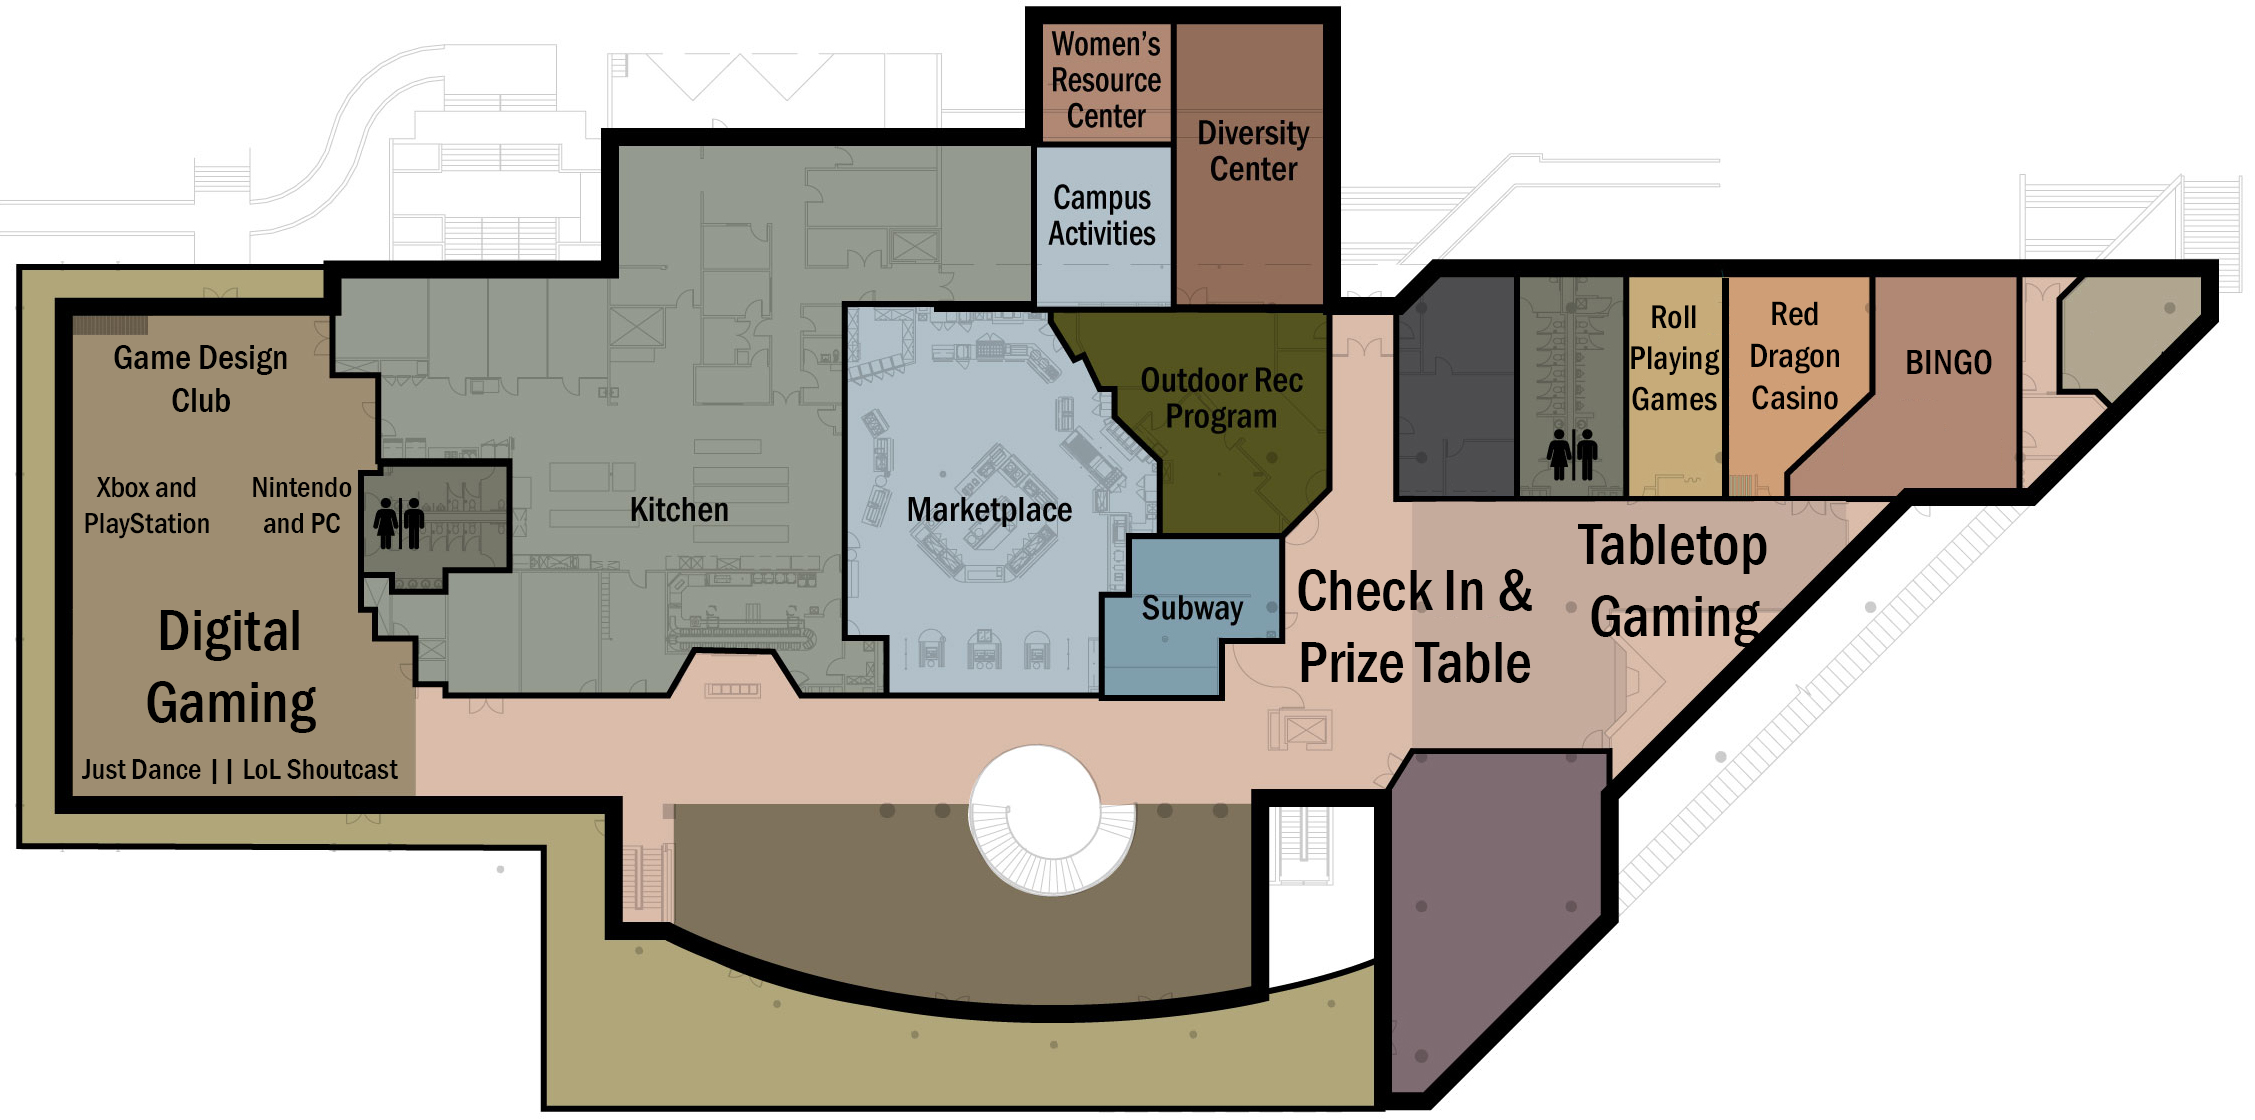
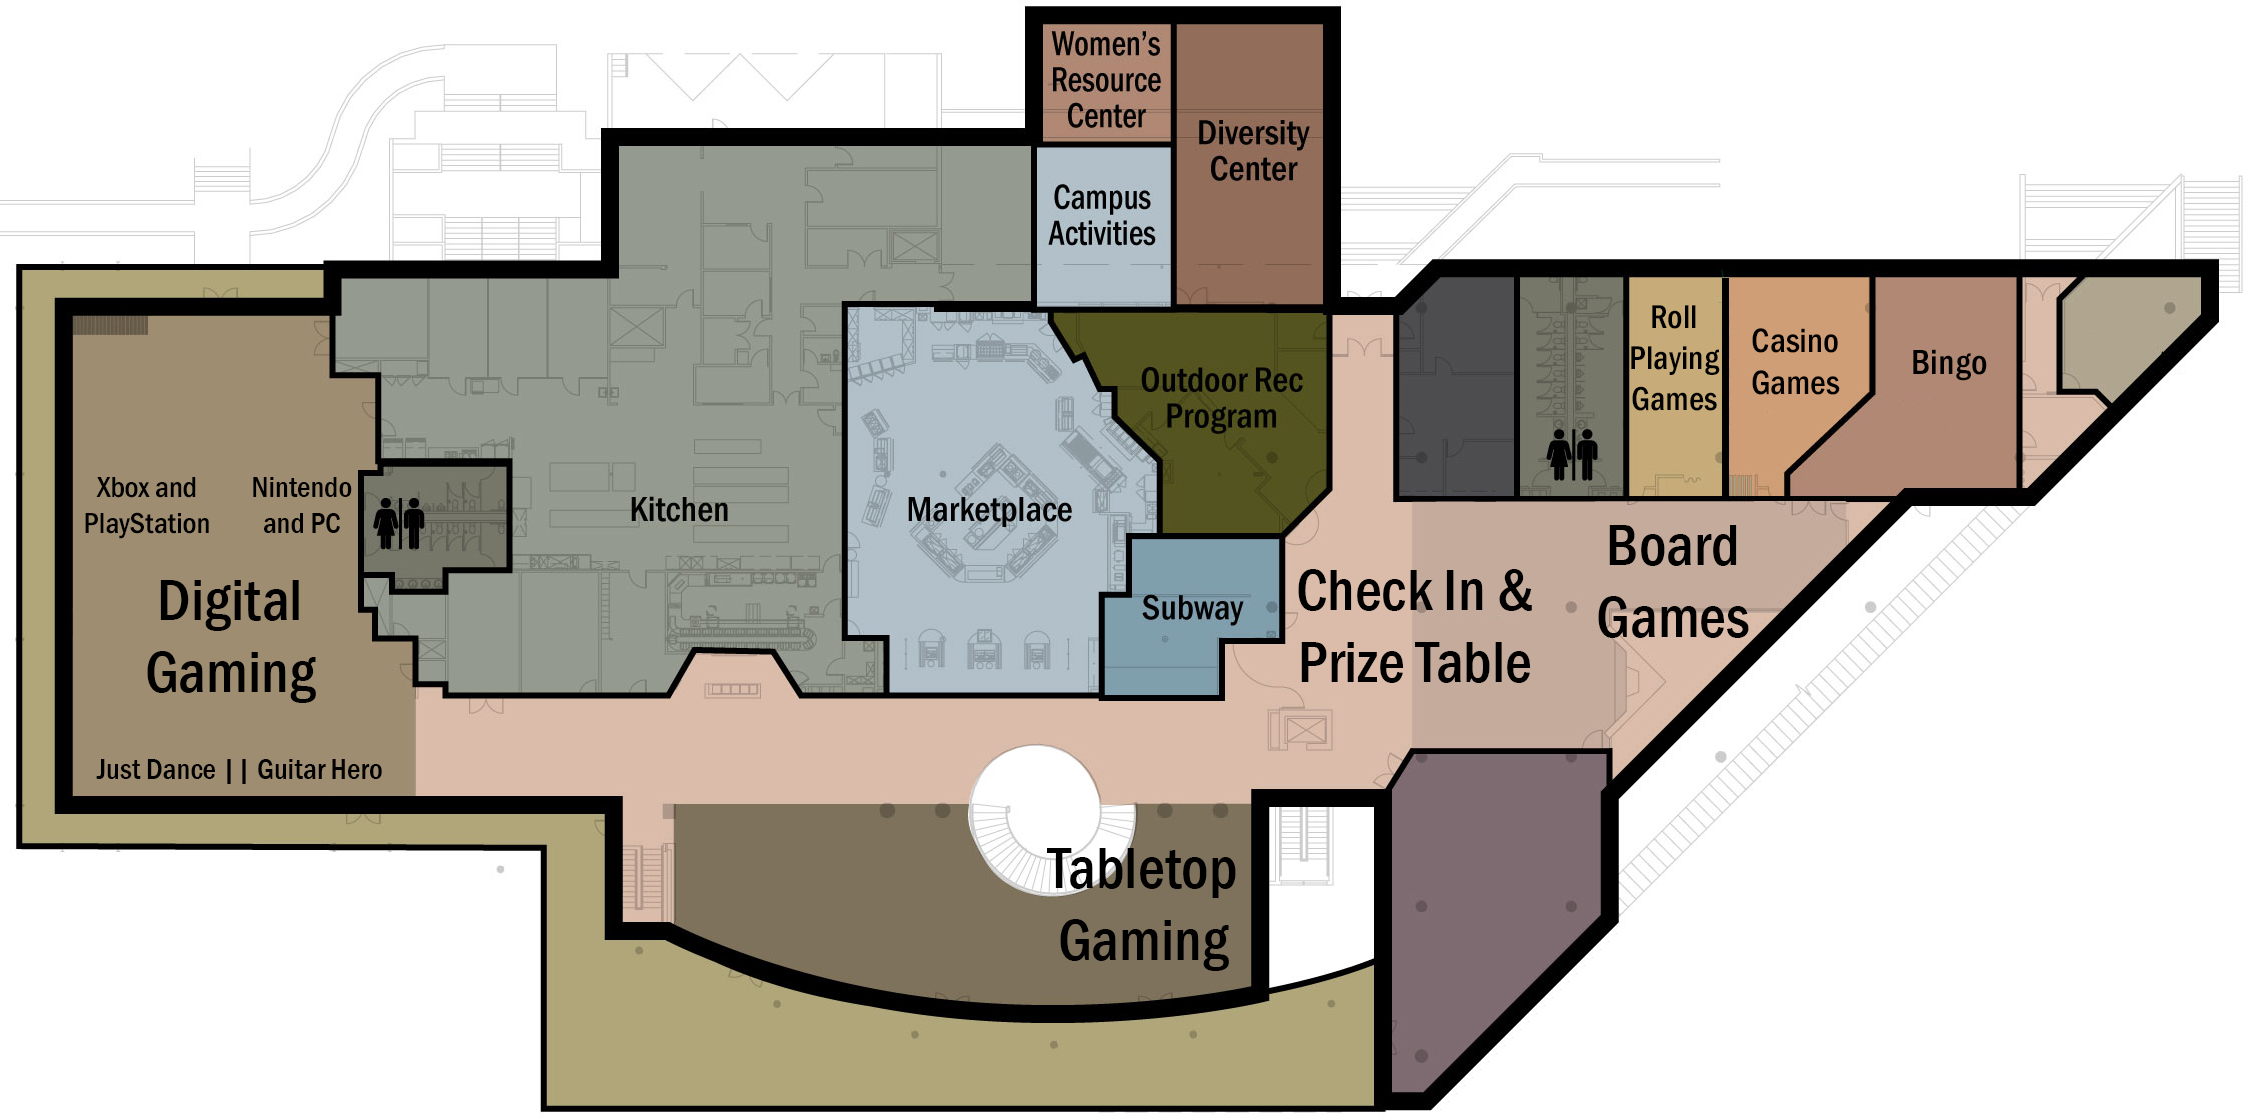
Updated map and schedule to as correct as I can find. Updated index to correct sponsors and tabs->spaces

diff --git a/site/index.html b/site/index.html
@@ -1,5 +1,5 @@
 <!DOCTYPE html
-	"http://techcon.paradoxtrail.net">
+    "http://techcon.paradoxtrail.net">
 <!--
                                                                                                     
   ,                E                          ###   #   #      ####   ####   ###    #               
@@ -69,64 +69,64 @@ tGtfLG###W#K##############W#
 --> 
 <html>
 <head>
-	<meta charset="UTF-8">
-	<title>TechCon 2016 - Oregon Tech</title>
-	<link rel="stylesheet" href="css/style.css" type="text/css">
-	<link rel="icon" type="image/x-icon" href="images/favicon.ico">
-	<meta name="Keywords" content="TechCon, 2016, OIT, Oregon Tech, Oregon Institute of Technology, convention, League of Legends, video game, casino, prizes">
-	
-	<script src="js/dates.js" type="text/javascript"></script> 
+    <meta charset="UTF-8">
+    <title>TechCon 2016 - Oregon Tech</title>
+    <link rel="stylesheet" href="css/style.css" type="text/css">
+    <link rel="icon" type="image/x-icon" href="images/favicon.ico">
+    <meta name="Keywords" content="TechCon, 2016, OIT, Oregon Tech, Oregon Institute of Technology, convention, League of Legends, video game, casino, prizes">
+    
+    <script src="js/dates.js" type="text/javascript"></script> 
     
     <script src="js/jquery-1.11.3.min.js"></script>
-	<script src="js/slideshow.js" type="text/javascript"></script> 
+    <script src="js/slideshow.js" type="text/javascript"></script> 
 </head>
 <body>
-	<div id="background-green">
-		background
-	</div>
-	<div class="page">
-		<div class="home-page">
-			<div class="sidebar">
-				<a href="index.html" id="logo"><img src="images/logo.png" alt="logo" ></a>
-				<ul>
-					<li class="selected home">
-						<a href="index.html">Home</a>
-					</li>
-					<li class="about">
-						<a href="about.html">About</a>
-					</li>
-					<li class="schedule">
-						<a href="schedule.html">Schedule</a>
-					</li>
-					<li class="reglol">
-						<a href="registerlol.html">LoL Reg</a>
-					</li>
-					<li class="reg">
-						<a href="register.html">Other Reg</a>
-					</li>
-				</ul>
-			</div>
-			<div class="body">
-				<div class="content-home">
-					<div>
-						<h3><a href="images/TechCon-2016-orig.jpeg" target="blank"><img src="images/TechCon-2016-small.jpg" alt="" width="345"></a></h3>
-						<p><center>
-							This year's TechCon will be 
-							<br><b>Saturday, January 16th, 2016.</b>
-						</center></p>
-						<br/>
-						<p>
-							TechCon is a campus-wide event hosted by Oregon Institute of Technology's Department of Housing and Residence Life. It caters primarily to the gamers and other con-loving people of Oregon Tech Klamath. 
-						</p>
-						<p>	
-							Naturally, you can go to our <a href="about.html">About page</a> to learn more or the <a href="schedule.html">Schedule page</a> to see exactly what we're going to be hosting. If you want to sign up for a tournament, go to the <a href="registerlol.html">League of Legends Registration page</a> or the <a href="register.html">General Registration page</a>.
-						</p>
-						<p><br>
-							Questions about TechCon? Send an email to <a href="mailto:res.life@oit.edu?subject=TechCon">res.life@oit.edu</a>.
-						</p>
-					</div>
-					<div class="featured">
-						<!--<iframe width="825" height="490" src="http://www.youtube.com/embed/zobvU0PF6t4" frameborder="0" allowfullscreen></iframe>
+    <div id="background-green">
+        background
+    </div>
+    <div class="page">
+        <div class="home-page">
+            <div class="sidebar">
+                <a href="index.html" id="logo"><img src="images/logo.png" alt="logo" ></a>
+                <ul>
+                    <li class="selected home">
+                        <a href="index.html">Home</a>
+                    </li>
+                    <li class="about">
+                        <a href="about.html">About</a>
+                    </li>
+                    <li class="schedule">
+                        <a href="schedule.html">Schedule</a>
+                    </li>
+                    <li class="reglol">
+                        <a href="registerlol.html">LoL Reg</a>
+                    </li>
+                    <li class="reg">
+                        <a href="register.html">Other Reg</a>
+                    </li>
+                </ul>
+            </div>
+            <div class="body">
+                <div class="content-home">
+                    <div>
+                        <h3><!--Because this picture is totally a header--><a href="images/TechCon-2016-orig.jpeg" target="blank"><img src="images/TechCon-2016-small.jpg" alt="" width="345"></a></h3>
+                        <center><h2>
+                            This year's TechCon will be 
+                            <br><b>Saturday, January 16th, 2016.</b>
+                        </h2></center>
+                        <br/>
+                        <p>
+                            TechCon is a campus-wide event hosted by Oregon Institute of Technology's Department of Housing and Residence Life. It caters primarily to the gamers and other con-loving people of Oregon Tech Klamath. 
+                        </p>
+                        <p>    
+                            Naturally, you can go to our <a href="about.html">About page</a> to learn more or the <a href="schedule.html">Schedule page</a> to see exactly what we're going to be hosting. If you want to sign up for a tournament, go to the <a href="registerlol.html">League of Legends Registration page</a> or the <a href="register.html">General Registration page</a>.
+                        </p>
+                        <p><br>
+                            Questions about TechCon? Send an email to <a href="mailto:res.life@oit.edu?subject=TechCon">res.life@oit.edu</a>.
+                        </p>
+                    </div>
+                    <div class="featured">
+                        <!--<iframe width="825" height="490" src="http://www.youtube.com/embed/zobvU0PF6t4" frameborder="0" allowfullscreen></iframe>
                         -->
                         
                         <div id="slider"">
@@ -152,93 +152,87 @@ tGtfLG###W#K##############W#
                         </div>
                         
                     </div>
-					<div class="sponsor">
-						<h3>Brought to you by the generosity of...</h3>
-					</div>
-					<div class="sponsor">
-						<ul>
-							<li>
-								<center>
-									<a href="https://www.facebook.com/Kfallsmagic">
-										<img src="images/logo_basingaming3.png" alt="Basin Gaming" width="150">
-										<!--Basin Gaming-->
-									</a>
-								</center>
-							</li>
-							<li>
-								<center>
-									<a href="http://www.oit.edu/campus-life/housing">
-										<img src="images/logo_oregontech.png" alt="OIT Housing and Res Life" width="150">
-										<!--Oregon Tech-->
-									</a>
-								</center>
-							</li>
-							<li>
-								<center>
-									<a href="https://www.facebook.com/OITHawaiiClub">
-										<img src="images/logo_hawaii.png" alt="OIT Hawaii Club: Alanui o Pueo" width="150">
-										<!--OIT Hawaii Club: Alanui o Pueo-->
-									</a>
-								</center>
-							</li>
-						</ul>
-						<ul>
-							<li>
-								<center>
-									<a href="mailto:DL.Mailbag@yahoo.com">
-										<img src="images/logo_gamedesign.png" alt="OIT Game Design Club" width="150">
-										<!--OIT Game Design Club-->
-									</a>
-								</center>
-							</li>
-							<li>
-								<center>
-									<a href="http://www.bkstr.com/oregonitstore/home">
-										<img src="images/logo_technest.png" alt="Tech Nest Bookstore" width="150">
-										<!--Riot Games-->
-									</a>
-								</center>
-							</li>
-							<li>
-								<center>
-									<a href="https://www.facebook.com/oithousing">
-										<img src="images/logo_rha.png" alt="RHA" width="150">
-										<!--RHA-->
-									</a>
-								</center>
-							</li>
-						</ul>
-					</div>
-					<div>
-						<ul>
-							<li>
-								<img src="images/cosplay13.jpg" alt="Cosplay" width="360">
-								<h3>Express yourself</h3>
-								<p>
-									Got a knack for making costumes? Love playing tabletop games against your friends? Can't get enough video games? We've got you covered! It doesn't matter what your nerdy passions are, TechCon is the place for you to be.
-								</p>
-							</li>
-							<li>
-								<img src="images/games_casino4.jpg" alt="Casino" width="360">
-								<h3>Take a chance</h3>
-								<p>
-									Wager your TechChips at a fun and safe gambling environment. Try to hit it big and get yourself some fabulous prizes. Learn about your chance of winning at different casino games and try to beat the house and the odds.
-								</p>
-							</li>
-						</ul>
-					</div>
-				</div>
-				<div class="footer">
-					<p>
-						&#169; 2013-<script type="text/javascript">getCurrentYear()</script> Dakota Kanner via Oregon Tech Housing and Residence Life. 
-						This page was last updated <script type="text/javascript">getDateLastModified()</script>.
-					<br/>
-						Questions/comments/concerns?
-						Contact <a href="mailto:res.life@oit.edu?subject=TechCon">res.life@oit.edu</a> or the site admin at <a href="mailto:dakota.kanner@oit.edu?subject=TechCon">dakota.kanner@oit.edu.</a>
-					</p>
-				</div>
-			</div>
-		</div>
-	</div>
+                    <div class="sponsor">
+                        <h3>Brought to you by the generosity of...</h3>
+                    </div>
+                    <div class="sponsor">
+                        <table>
+                            <tr>
+                                <td colspan="2">
+                                    <center>
+                                        <a href="https://www.facebook.com/Kfallsmagic">
+                                            <img src="images/logo_basingaming3.png" alt="Basin Gaming" width="150">
+                                            <!--Basin Gaming-->
+                                        </a>
+                                    </center>
+                                </td>
+                                <td colspan="2">
+                                    <center>
+                                        <a href="http://www.oit.edu/campus-life/housing">
+                                            <img src="images/logo_oregontech.png" alt="OIT Housing and Res Life" width="150">
+                                            <!--Oregon Tech-->
+                                        </a>
+                                    </center>
+                                </td>
+                                <td colspan="2">
+                                    <center>
+                                        <a href="https://www.facebook.com/groups/klamathgamingbureau">
+                                            <img src="images/logo_klamathgamingbureau.png" alt="Klamath Gaming Bureau" width="150">
+                                            <!--Klamath Gaming Bureau-->
+                                        </a>
+                                    </center>
+                                </td>
+                            </tr>
+                            <tr>
+                                <td colspan="3">
+                                    <center>
+                                        <a href="http://www.bkstr.com/oregonitstore/home">
+                                            <img src="images/logo_technest.png" alt="Tech Nest Bookstore" width="150">
+                                            <!--Riot Games-->
+                                        </a>
+                                    </center>
+                                </td>
+                                <td  colspan="3">
+                                    <center>
+                                        <a href="https://www.facebook.com/oithousing">
+                                            <img src="images/logo_rha.png" alt="RHA" width="150">
+                                            <!--RHA-->
+                                        </a>
+                                    </center>
+                                </td>
+                            </tr>
+                        </table>
+                    </div>
+                    <div>
+                        <ul>
+                            <li>
+                                <img src="images/cosplay13.jpg" alt="Cosplay" width="360">
+                                <h3>Express yourself</h3>
+                                <p>
+                                    Got a knack for making costumes? Love playing tabletop games against your friends? Can't get enough video games? We've got you covered! It doesn't matter what your nerdy passions are, TechCon is the place for you to be.
+                                </p>
+                            </li>
+                            <li>
+                                <img src="images/games_casino4.jpg" alt="Casino" width="360">
+                                <h3>Take a chance</h3>
+                                <p>
+                                    Wager your TechChips at a fun and safe gambling environment. Try to hit it big and get yourself some fabulous prizes. Learn about your chance of winning at different casino games and try to beat the house and the odds.
+                                </p>
+                            </li>
+                        </ul>
+                    </div>
+                </div>
+                <div class="footer">
+                    <p>
+                        &#169; 2013-<script type="text/javascript">getCurrentYear()</script> Dakota Kanner via Oregon Tech Housing and Residence Life. 
+                        This page was last updated <script type="text/javascript">getDateLastModified()</script>.
+                    <br/>
+                        Questions/comments/concerns?
+                        Contact <a href="mailto:res.life@oit.edu?subject=TechCon">res.life@oit.edu</a> or the site admin at <a href="mailto:dakota.kanner@oit.edu?subject=TechCon">dakota.kanner@oit.edu.</a>
+                    </p>
+                </div>
+            </div>
+        </div>
+    </div>
 </body>
 </html>

diff --git a/site/css/style.css b/site/css/style.css
@@ -274,6 +274,13 @@ p a:hover {
 	overflow:hidden;
 	padding:26px 30px 21px;
 }
+.body .content-home div h2 {
+	color:#5c3820;
+	font-size:24px;
+	font-weight:400;
+	line-height:26px;
+	margin:0
+}
 .body .content-home div h3 {
 	color:#825444;
 	float:left;
@@ -1152,8 +1159,8 @@ p a:hover {
 .body .content-home div.sponsor h3{
 	width:90%;
 }
-.body .content-home div.sponsor  ul li {
-	width:33%;
+.body .content-home div.sponsor table tr td {
+	width:16.6%;
 	height: 175px;
 	margin-left:auto; 
     margin-right:auto;
